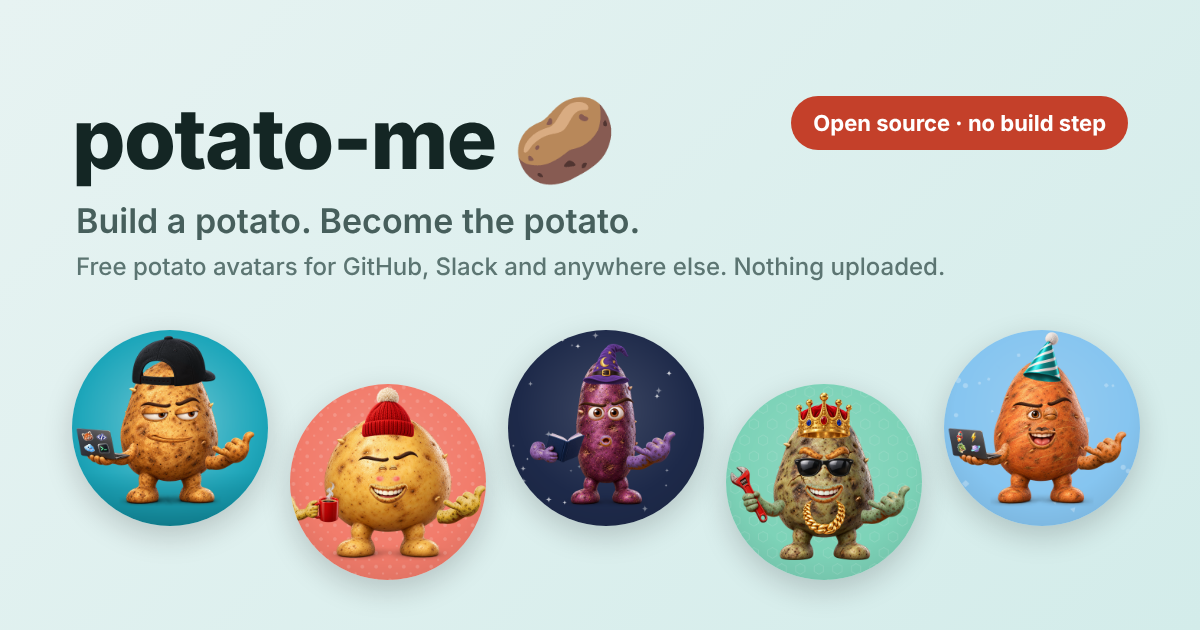
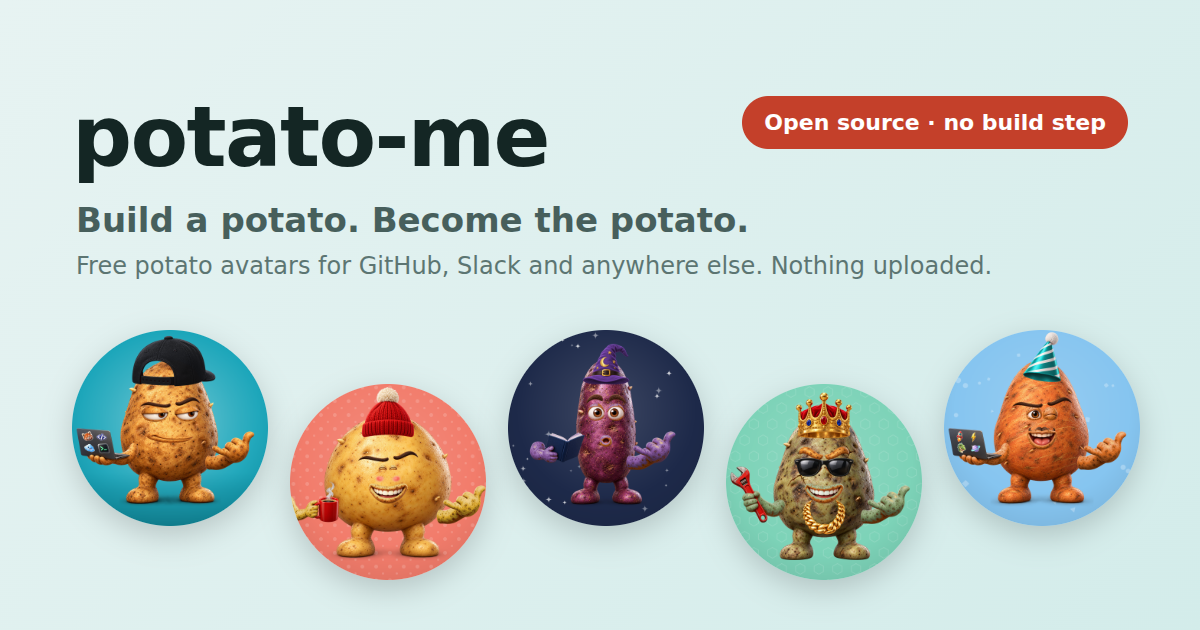
Refresh README with verified features, setup and artwork

diff --git a/README.md b/README.md
@@ -1,42 +1,23 @@
-<p align="center"><img src="docs/hero.png" alt="Five rendered potato avatars: a round golden potato in a red beanie with coffee, a long purple potato in a wizard hat reading a book, the classic russet potato in a backward cap holding a sticker-covered laptop and throwing a shaka, a lumpy zombie potato in a crown and shades with a gold chain and a wrench, and a sweet potato in a party hat with a mustache" width="860"></p>
-
 <h1 align="center">potato-me 🥔</h1>
 
 <p align="center"><strong>Build a potato. Become the potato.</strong></p>
 
 <p align="center">
-  <a href="https://github.com/WaylandP/potato-me/actions/workflows/ci.yml"><img src="https://github.com/WaylandP/potato-me/actions/workflows/ci.yml/badge.svg" alt="CI status"></a>
+  <a href="https://github.com/WaylandP/potato-me/actions/workflows/ci.yml"><img src="https://github.com/WaylandP/potato-me/actions/workflows/ci.yml/badge.svg?branch=main" alt="CI status on main"></a>
   <a href="LICENSE"><img src="https://img.shields.io/badge/license-MIT-blue.svg" alt="MIT license"></a>
-  <img src="https://img.shields.io/badge/dependencies-none-brightgreen.svg" alt="No dependencies">
+  <img src="https://img.shields.io/badge/Node.js-20%2B-339933.svg" alt="Node.js 20 or newer for local tools">
+  <img src="https://img.shields.io/badge/runtime_dependencies-0-brightgreen.svg" alt="Zero runtime dependencies">
 </p>
 
-A web app for making a rendered 3D potato avatar for GitHub, Slack, Google or anywhere else that wants a square profile picture. Pick a shape and skin, a face, a hat and some gear, then download a 512 × 512 PNG (or 1024 for bigger places).
+Make a potato avatar for GitHub, Slack or anywhere that needs a profile picture. Choose a shape, an expression, accessories and a hand gesture, then download a **512 × 512 or 1024 × 1024 PNG**. The editor combines **164 transparent PNG assets** in your browser, with no account, build step or server-side rendering.
 
-- **Rendered, not drawn.** Every part is a studio-lit 3D render with real potato skin, stacked in your browser on a canvas.
-- **No build step, no dependencies.** Plain HTML, CSS and JavaScript modules. Clone it and open it.
-- **Private by design.** Everything runs in your browser. Nothing is uploaded, no accounts, no tracking.
-- **Shareable.** Every potato lives in the URL, so a link *is* the potato.
-- **Crop-aware.** The preview shows the circle most sites crop avatars to, so nothing important gets cut off.
+<p align="center"><img src="docs/completion-preview.png" alt="Eight avatars assembled by potato-me, showing all four body shapes, expressive faces, laptop stickers, boba, a trophy, pizza, a controller, a donut, a plant and an editable sign, with different hand gestures" width="1000"></p>
 
-<p align="center"><img src="docs/screenshot.png" alt="The potato-me editor: a live preview with the avatar crop circle on the left, and Body, Face, Hat, Gear and Background tabs on the right where every option is shown as a mini potato" width="860"></p>
-
-## What you can change
-
-| Tab | Options |
-| --- | --- |
-| **Body** | 4 shapes (Classic, Lumpy, Round, Long) × 9 skins (Russet, Yukon gold, Red, Purple, Sweet, Adirondack blue, Fingerling pink, Ghost, Zombie) |
-| **Face** | 10 one-click vibes · 14 eyes · 7 eyebrows · 12 mouths · blush or freckles · 5 kinds of facial hair |
-| **Hat** | 19 hats, each in 12 colors · initials embroidered on caps, beanies and headbands |
-| **Gear** | 15 held-item choices including an empty hand · editable sign text · 26 laptop stickers, pick up to 6 · 11 free-hand poses · 6 kinds of eyewear · 6 kinds of neckwear · headphones, earbuds, band-aid, earring or flower |
-| **Background** | 14 colors × 12 patterns, including a studio spotlight |
-
-That's tens of trillions of combinations before you pick stickers or type on the cap. **Surprise me** picks one for you.
-
-All 164 planned rendered assets are included. The completion pack adds raised eyebrows, ten free-hand poses, eleven held-item choices and four stickers. The sign stays blank in its source artwork; your text is drawn in the browser. Food, gold, clay and wood use protected regions so changing skin color preserves those materials. See `docs/ASSET_COMPLETION.md` for validation and delivery status.
+These examples come from the app's compositor. The artwork was generated with ChatGPT image generation in a consistent 3D-rendered style; the project does not include 3D models.
 
 ## Run it locally
 
-Node 20 or newer is the only requirement.
+Install **Node.js 20 or newer**, then:
 
 ```bash
 git clone https://github.com/WaylandP/potato-me.git
@@ -44,58 +25,99 @@ cd potato-me
 npm run dev
 ```
 
-Then open <http://localhost:5173>. `npm run dev` starts a tiny dependency-free static server (`scripts/serve.mjs`); any other static server works too. Opening `index.html` straight from disk won't work because browsers block ES modules on `file://`.
+Open **<http://localhost:5173>**. There is no `npm install` step for running the app or its Node tests. The included server serves the repository as static files; any HTTP static server can do the same. Opening `index.html` directly with `file://` will not work because the app uses ES modules.
+
+## Make it yours
+
+| Control | Included choices |
+| --- | --- |
+| **Body** | 4 shapes: Classic, Lumpy, Round and Long · 9 skins, from Russet and Yukon gold to Purple, Ghost and Zombie |
+| **Face** | 10 one-click vibes · 14 eyes · 7 eyebrow styles plus no brows · 12 mouths · blush or freckles · 5 facial-hair styles |
+| **Hat** | 19 hats plus no hat · 12 color choices for 15 recolorable hats · up to 3 characters on caps, beanies and headbands |
+| **Holding** | 14 objects plus an empty hand · sign text up to 10 characters · 26 laptop stickers, with up to 6 selected at once |
+| **Free hand** | 11 poses: chill, wave, shaka, thumbs up, peace, point, rock on, OK, fist up, salute and flex |
+| **Accessories** | 6 eyewear styles · 6 neckwear styles · headphones, earbuds, band-aid, earring or flower |
+| **Background** | 14 colors · 12 patterns, including solid and a studio spotlight |
+
+1. Pick a vibe or use **Surprise me**, then adjust the details in the five editor tabs.
+2. Choose the laptop to add stickers, the sign to write a message, or a cap, beanie or headband to add initials. Text is uppercased and limited to the supported characters.
+3. Check the circular crop guide before downloading. Exports are square PNGs; the circle helps you preview an avatar crop.
+4. Copy the share link to save or share the same choices. The avatar state lives in the URL fragment, including custom text. A localhost link requires a local copy of the app; use a hosted instance for links others can open directly.
+
+<p align="center"><img src="docs/screenshot.png" alt="The potato-me editor with a live avatar preview and Body, Face, Hat, Gear and Background tabs" width="860"></p>
+
+## Privacy and storage
+
+Avatar composition and PNG export happen in your browser. The app has no accounts, upload endpoint, database or bundled analytics. Share links contain your chosen options and text, so anyone with the link can recreate that potato.
+
+The interface currently requests the Fredoka font from **Google Fonts**. Self-hosting the font is tracked in the [roadmap](ROADMAP.md); this is not a fully offline distribution.
+
+## Included artwork and verification
+
+All **164 planned assets** and their thumbnails are included. The final 26 additions complete the raised eyebrows, held items, free-hand poses and laptop stickers. The sign's lettering is drawn by the app, and protected prop regions preserve food, gold, wood and clay colors when the potato's skin changes.
+
+The November 1, 2026 completion checks covered:
+
+- **32 passing Node tests**, including asset inventory, fitting data, URL state and missing-part fallback.
+- **312 rendered and exported combinations**: 26 new options × 4 body shapes × 3 skins.
+- Desktop (1280 px) and phone (390 px), in light and dark mode, including keyboard selection, text editing and downloads.
+- A largest measured 512 px export of **441,284 bytes**, below 1 MB for the tested combinations. File size varies with the avatar.
+
+See the [completion record](docs/ASSET_COMPLETION.md) for scope and limitations. These are local validation results; the [roadmap](ROADMAP.md) tracks deployment verification separately.
+
+## Development
 
 ```bash
-npm test          # Node's built-in test runner, no installs
-npm run assets    # rebuild thumbnails and the asset index after adding part images (needs Playwright)
-npm run hero      # rebuild the README banner and link-preview card from the app (needs Playwright)
-npm run shot      # screenshot any potato or the whole page for review (needs Playwright)
+npm test          # Node's built-in test runner; no install required
+npm run dev       # Static server on port 5173
 ```
 
-Playwright is an optional dev tool, not a dependency: `npm i -D playwright && npx playwright install chromium`.
+Image maintenance and screenshot tools use **Playwright with Chromium**. Install them locally without changing the project's dependency files:
 
-## Deploy
+```bash
+npm install --no-save --package-lock=false playwright
+npx playwright install chromium
 
-It's a static site, so any static host works with no build command and `.` as the output directory.
+npm run assets    # Rebuild 256 px thumbnails and src/assets.js from the manifest
+npm run hero      # Rebuild docs/hero.png and docs/og.png from the app
+npm run shot -- preview.png '#item=sign&sign=SHIP%20IT&gesture=thumbsUp'
+```
+
+Playwright is an optional development tool, not an application dependency. Commit generated thumbnails and the asset index when adding or replacing artwork.
+
+### Repository map
+
+| Path | Purpose |
+| --- | --- |
+| [index.html](index.html) / [src/main.js](src/main.js) | Editor page and UI behavior |
+| [fit.html](fit.html) | Preview and adjust part placement on each body shape |
+| [assets/parts/](assets/parts/) | 164 transparent, 1024 × 1024 PNG assets |
+| [assets/thumbs/](assets/thumbs/) | Generated 256 × 256 thumbnails |
+| [assets/manifest.json](assets/manifest.json) / [src/assets.js](src/assets.js) | Asset inventory and generated runtime index |
+| [src/fit-data.js](src/fit-data.js) | Placement transforms, color masks, protected regions and text placement |
+| [src/raster.js](src/raster.js) | Canvas composition, recoloring, stickers, lettering and PNG export |
+| [src/options.js](src/options.js) / [src/state.js](src/state.js) | Choices, presets, validation, URL encoding and legacy links |
+| [src/parts/](src/parts/) / [src/compose.js](src/compose.js) | SVG backgrounds, fallback stickers and the legacy pure SVG compositor |
+| [scripts/](scripts/) / [test/](test/) | Local tools and Node tests |
+
+### Adding or fitting a part
+
+Use the [art prompts](docs/IMAGE_PROMPTS.md) and [contributor guide](CONTRIBUTING.md). Save each part as a 1024 × 1024 transparent PNG on the shared canvas, register its stable option key and manifest entry, then run `npm run assets`. Fit it with `fit.html` and `src/fit-data.js`, and check all four shapes and at least three skins before committing.
+
+The renderer stacks layers in manifest order and applies per-shape transforms. Color masks change supported materials without shifting the entire image; `FIT.skinProtect` preserves held objects while their hands follow the skin color. Stickers are projected onto the laptop lid, and initials and sign text are drawn at render time. The [exact completion prompts](docs/ASSET_COMPLETION_PROMPTS.json) document the newest artwork.
+
+Keep option keys compatible with existing share links. Do not hand-edit generated thumbnails or `src/assets.js`. [CLAUDE.md](CLAUDE.md) contains additional repository guidance for coding assistants.
+
+## Hosting
+
+Serve the repository root on a static host over HTTP or HTTPS. There is **no build command**, and the output/publish directory is **`.`**. Include `assets/` and `src/` (including `src/styles.css`) alongside `index.html`.
 
 [![Deploy with Vercel](https://vercel.com/button)](https://vercel.com/new/clone?repository-url=https://github.com/WaylandP/potato-me)
 
-- **Vercel:** import the repo, leave the framework preset on **Other**, no build command, output directory `.`.
-- **Netlify / Cloudflare Pages:** same settings: no build command, publish directory `.`.
-- **GitHub Pages:** Settings → Pages → deploy from branch `main`, folder `/ (root)`.
+A verified public deployment URL has not yet been recorded here. Deployment and live-site checks remain on the [roadmap](ROADMAP.md).
 
-## How it works
+## Contributing and license
 
-```
-index.html            the editor
-fit.html              fitting page: nudge any part on any body shape, copy the result into fit-data.js
-assets/parts/         164 rendered parts, 1024 px transparent PNGs placed on a shared canvas
-assets/thumbs/        256 px copies for the option grids (generated)
-assets/manifest.json  inventory of the parts with placement boxes and checksums
-src/assets.js         static index of the parts (generated from the manifest)
-src/fit-data.js       per-shape transforms, recolor lists, cap text boxes, laptop lid corners
-src/raster.js         the compositor: stacks layers, recolors, tints skin, stamps stickers, letters initials
-src/options.js        every choice the editor offers, plus the defaults and presets
-src/state.js          validate state, encode/decode the URL hash, randomize, migrate old links
-src/main.js           the editor UI
-src/parts/            SVG backgrounds and the fallback sticker art
-src/compose.js        the older SVG potato renderer, kept for backgrounds and tests
-scripts/              dev server, thumbnail builder, screenshot and hero tools
-test/                 node:test suites
-```
+Bug reports are easier to reproduce with the avatar's share link. Open an [issue](https://github.com/WaylandP/potato-me/issues) or follow [CONTRIBUTING.md](CONTRIBUTING.md) for artwork and code changes.
 
-The parts were generated with ChatGPT's image generation from the prompts in `docs/IMAGE_PROMPTS.md`: one base potato, then every part rendered alone at the position it would occupy on that base. The app stacks them in manifest order with small per-shape transforms. Hats, neckwear, headphones and the mug were rendered in one red colorway; a hue mask recolors just those pixels to the chosen color while keeping the shading, so white trim, dark bands and gold stay as they are. Arms were rendered in russet and are tinted to the chosen skin the same way. Stickers are projected onto the blank laptop lid, and cap initials are lettered on with an embroidery effect. Export composes at 1024 px and downsamples to 512 px, which comes out around 430 KB.
-
-## Adding a new part
-
-1. Generate it with the matching line in `docs/IMAGE_PROMPTS.md`, as a 1024 × 1024 transparent PNG positioned on the base potato, and save it as `assets/parts/<group>/<key>.png`. The key must exist in `OPTIONS` (`src/options.js`); add it there first for a brand-new part.
-2. Add it to `assets/manifest.json` (copy a neighbouring entry: group, key, path, `placedBox` = the image's opaque bounds) and run `npm run assets` to rebuild the thumbnails and `src/assets.js`.
-3. Open `fit.html`, check it on all four body shapes, and paste any nudges into `src/fit-data.js`. Red colorway parts also go in `FIT.recolor`.
-4. `npm test`, then `npm run shot` a few combinations and look at them.
-
-[CONTRIBUTING.md](CONTRIBUTING.md) has the full guide. [ROADMAP.md](ROADMAP.md) lists what's next, and [CLAUDE.md](CLAUDE.md) covers working on this repo with Claude Code.
-
-## License
-
-[MIT](LICENSE) for the code. The rendered part images were generated for this project and are included under the same license. Make all the potatoes.
+[MIT](LICENSE). The included AI-generated artwork is distributed under the same project license. Make all the potatoes.

diff --git a/docs/ASSET_COMPLETION.md b/docs/ASSET_COMPLETION.md
@@ -1,8 +1,9 @@
 # Rendered asset completion — November 1, 2026
 
-The final 26 missing assets are generated and integrated locally. The inventory
-now contains all 164 planned assets. The previous 138 full-resolution PNGs are
-unchanged. This work has not been pushed, merged or deployed.
+The final 26 missing assets are generated and integrated with the renderer. The
+inventory now contains all 164 planned assets. The previous 138 full-resolution
+PNGs are unchanged. Deployment verification is tracked separately in the
+[roadmap](../ROADMAP.md).
 
 ![Examples assembled by the app](completion-preview.png)
 
@@ -17,7 +18,7 @@ unchanged. This work has not been pushed, merged or deployed.
 
 All new assets are 1024 × 1024 transparent PNGs. Each was generated separately
 with the built-in image-generation tool using existing PNGs as visual references.
-The exact prompts are in `ASSET_COMPLETION_PROMPTS.json`. Normalization resizes
+The exact prompts are in [ASSET_COMPLETION_PROMPTS.json](ASSET_COMPLETION_PROMPTS.json). Normalization resizes
 the canvas and clears imperceptible alpha values of 1/255 or less; artwork is
 fitted through uniform transforms in `src/fit-data.js` without distortion.
 
@@ -56,16 +57,16 @@ files were retained to avoid unrelated browser-encoder differences.
 These checks cover the new asset pack and representative combinations. They are
 not a claim to have visually reviewed every possible avatar combination.
 
-## Delivery status
+## Repository status
 
-Based on `WaylandP/potato-me` main commit
+This completion work builds on `WaylandP/potato-me` main commit
 `237f1977929f7543f519c793fdd6805fe9ca11a3`.
 
-The completion ZIP is additive: it contains the 26 new part PNGs, their
-thumbnails, original renders, updated manifest/index/fitting/renderer files,
-tests, prompts and this preview. It requires the existing repository and its
-138 prior PNGs. Use a working branch; merge source changes if your checkout has
-changed since the base commit. Run `npm run assets` and `npm test` after applying.
+The repository contains the complete 164-part inventory, generated thumbnails,
+fitting data and compositor changes. No separate asset pack is needed to run
+this checkout. Follow the [README](../README.md) for setup and the
+[contributor guide](../CONTRIBUTING.md) when changing artwork.
 
-Roadmap checkboxes requiring deployed verification remain open. Publishing and
-deployment require the owner's authorization.
+Roadmap checkboxes requiring deployed verification remain open until the work
+is built, tested and visible on the deployed site. The validation above was run
+locally; it does not establish a live deployment.

diff --git a/CONTRIBUTING.md b/CONTRIBUTING.md
@@ -9,7 +9,7 @@ npm run dev     # http://localhost:5173
 npm test        # Node's built-in test runner
 ```
 
-Node 20 or newer is the only requirement. The optional dev tools (`npm run assets`, `npm run hero`, `npm run shot`) need Playwright: `npm i -D playwright && npx playwright install chromium`.
+Node 20 or newer is the only requirement. The optional dev tools (`npm run assets`, `npm run hero`, `npm run shot`) need Playwright: `npm install --no-save --package-lock=false playwright && npx playwright install chromium`.
 
 ## Where things live
 
@@ -38,7 +38,7 @@ Parts are generated with an image model from `docs/IMAGE_PROMPTS.md`, one part p
 2. **Generate the image.** Use the master prompt and the part's line from `docs/IMAGE_PROMPTS.md`. Hats, neckwear, headphones and the mug are rendered in the red master color so the app can recolor them; arms in russet skin. Keep the laptop lid and the sign blank.
 3. **Normalize it.** 1024 × 1024, RGBA, transparent background, placed where it belongs on the canvas. Save it as `assets/parts/<group>/<key>.png`.
 4. **Record it.** Add an entry to `assets/manifest.json` (copy a neighbour; `placedBox` is the opaque bounding box) and run `npm run assets`.
-5. **Fit it.** Open `fit.html`, look at the part on Classic, Lumpy, Round and Long, nudge with the arrow keys, and paste the printed `shapes` / `parts` into `src/fit-data.js`. Red colorway parts also go in `FIT.recolor`; a held object the skin mask would catch goes in `FIT.noSkinTint`. A two-sided part that was rendered too close together (earbuds) takes a `spread` instead of a scale, and a part that should scale around its own point gets a `group/key` entry in `FIT.pivots`.
+5. **Fit it.** Open `fit.html`, look at the part on Classic, Lumpy, Round and Long, nudge with the arrow keys, and paste the printed `shapes` / `parts` into `src/fit-data.js`. Red colorway parts also go in `FIT.recolor`; use `FIT.skinProtect` polygons to preserve held objects while their hands remain tintable. Use `FIT.noSkinTint` only when the entire part should bypass skin tinting. A two-sided part that was rendered too close together (earbuds) takes a `spread` instead of a scale, and a part that should scale around its own point gets a `group/key` entry in `FIT.pivots`.
 6. **Check it.** `npm test`, then `npm run shot review.png spec.json --cell 256 --cols 4` with a few combinations, and look at them in the avatar crop and the thumbnail grid.
 
 ### Art checklist

diff --git a/CLAUDE.md b/CLAUDE.md
@@ -7,7 +7,7 @@ A static, zero-dependency potato avatar builder that composites rendered PNG par
 - **No dependencies and no build step** unless the owner asks for one. Plain ES modules, plain CSS. Playwright is an optional, uncommitted dev tool for `npm run assets`, `npm run hero` and `npm run shot`; it is not a dependency.
 - **The art is the asset pack.** Potatoes are stacked from `assets/parts/<group>/<key>.png` (1024 px, transparent, already positioned on the shared canvas). Never hand-edit `src/assets.js` or `assets/thumbs/`; change `assets/manifest.json` and run `npm run assets`.
 - **Fit, don't redraw.** A part that sits wrong on a body shape gets a transform in `src/fit-data.js` (use `fit.html`), not a new image. Classic is the baseline the parts were fitted on.
-- **Recolor by mask only.** Parts listed in `FIT.recolor` were rendered in the red master (`#C8372D`); `src/raster.js` recolors just the red pixels so trim, bands, metal and jewels keep their colors. Never hue-shift a whole image. Arms are tinted to the skin the same way; list any held item whose object would be caught by the skin mask in `FIT.noSkinTint`.
+- **Recolor by mask only.** Parts listed in `FIT.recolor` were rendered in the red master (`#C8372D`); `src/raster.js` recolors just the red pixels so trim, bands, metal and jewels keep their colors. Never hue-shift a whole image. Arms are tinted to the skin the same way; protect held objects with `FIT.skinProtect` polygons so their hands remain tintable. Use `FIT.noSkinTint` only when the whole part should bypass skin tinting.
 - **Missing parts are hidden, never broken.** The renderer and the editor only offer choices whose image exists (`availableOptions()`), list the rest as "not drawn yet", and `drawableState()` swaps a missing choice for a drawable one. `noImageRequired` in the manifest names the "none" choices.
 - **Option keys are a public API.** They live in share links. Add keys freely; never rename or remove one without a `LEGACY` entry in `src/options.js`.
 - **`composeSVG` stays pure** (no DOM, no randomness). It still draws the backgrounds and the fallback stickers, and the tests render it in Node.

diff --git a/ROADMAP.md b/ROADMAP.md
@@ -19,8 +19,8 @@ Check a box only when the work is built, tested and visible on the deployed site
 - [x] Per-shape fitting data and `fit.html`
 - [x] Missing parts hidden and listed; old share links migrated
 - [x] Thumbnails, screenshot tool, hero and link-preview card from the real app
-- [ ] Generate the 26 remaining parts: **generated and integrated locally on 2026-11-01; deployment verification pending.** Raised brows, 11 held items (boba, phone, controller, sign, pizza, donut, duck, mic, trophy, plant, nothing), 10 free-hand poses, 4 stickers (404, skull, mountains, LGTM). See `docs/ASSET_COMPLETION.md`.
-- [ ] Sign text once `item/sign.png` exists — **implemented locally in the raster compositor; deployment verification pending.** Text box in `FIT.sign`.
+- [ ] Generate the 26 remaining parts: **generated, integrated and locally verified on 2026-11-01; deployment verification pending.** Raised brows, 11 held items (boba, phone, controller, sign, pizza, donut, duck, mic, trophy, plant, nothing), 10 free-hand poses, 4 stickers (404, skull, mountains, LGTM). See the [completion record](docs/ASSET_COMPLETION.md).
+- [ ] Sign text once `item/sign.png` exists — **implemented and locally verified in the raster compositor; deployment verification pending.** Text box in `FIT.sign`.
 - [x] Skin masks for eyelids and lips so the smug eyes match exotic skins
 - [x] Coherent "Surprise me": a vibe for the face, matching colors, at most two worn accessories
 - [x] Headphones, earbuds, earring and flower fitted to every body shape
